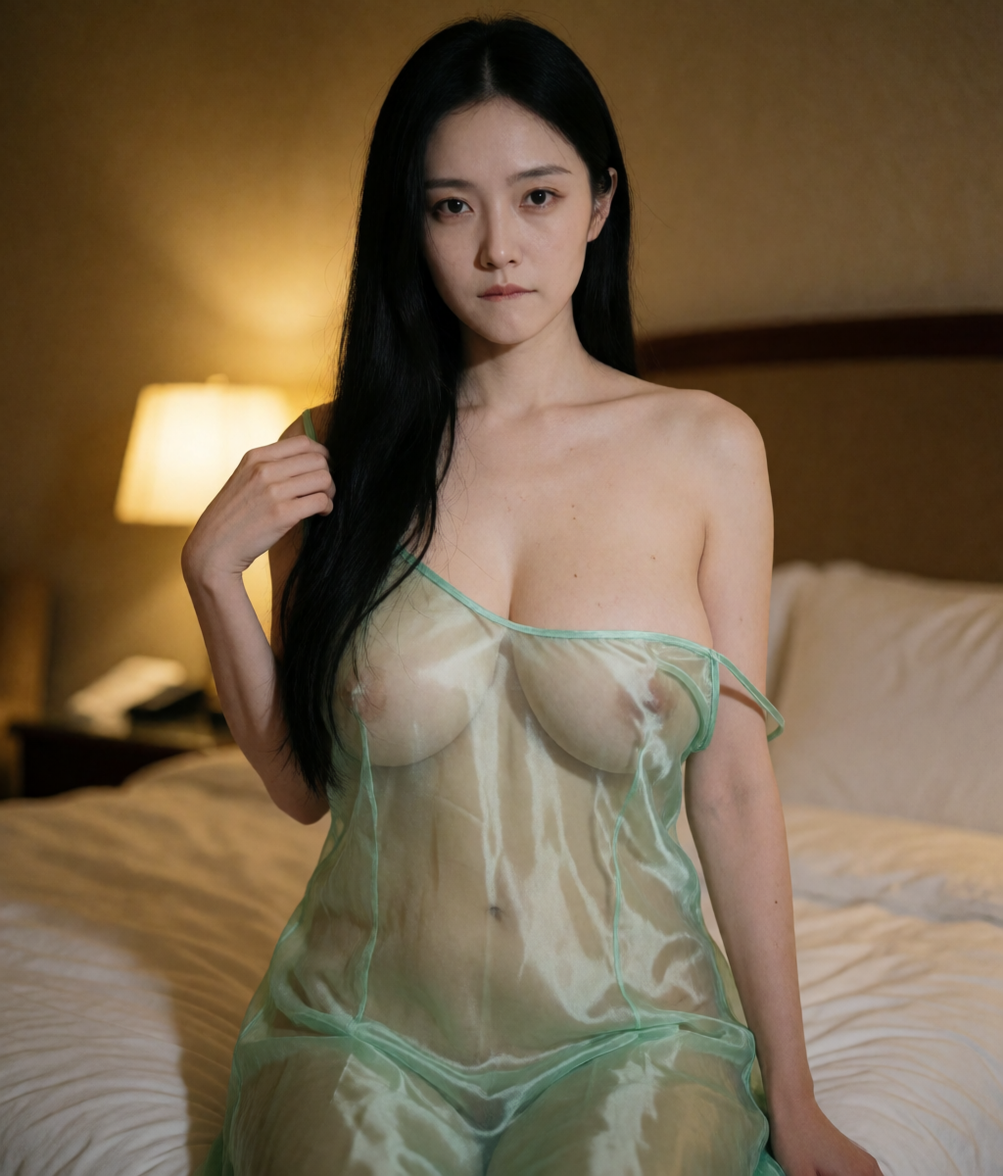
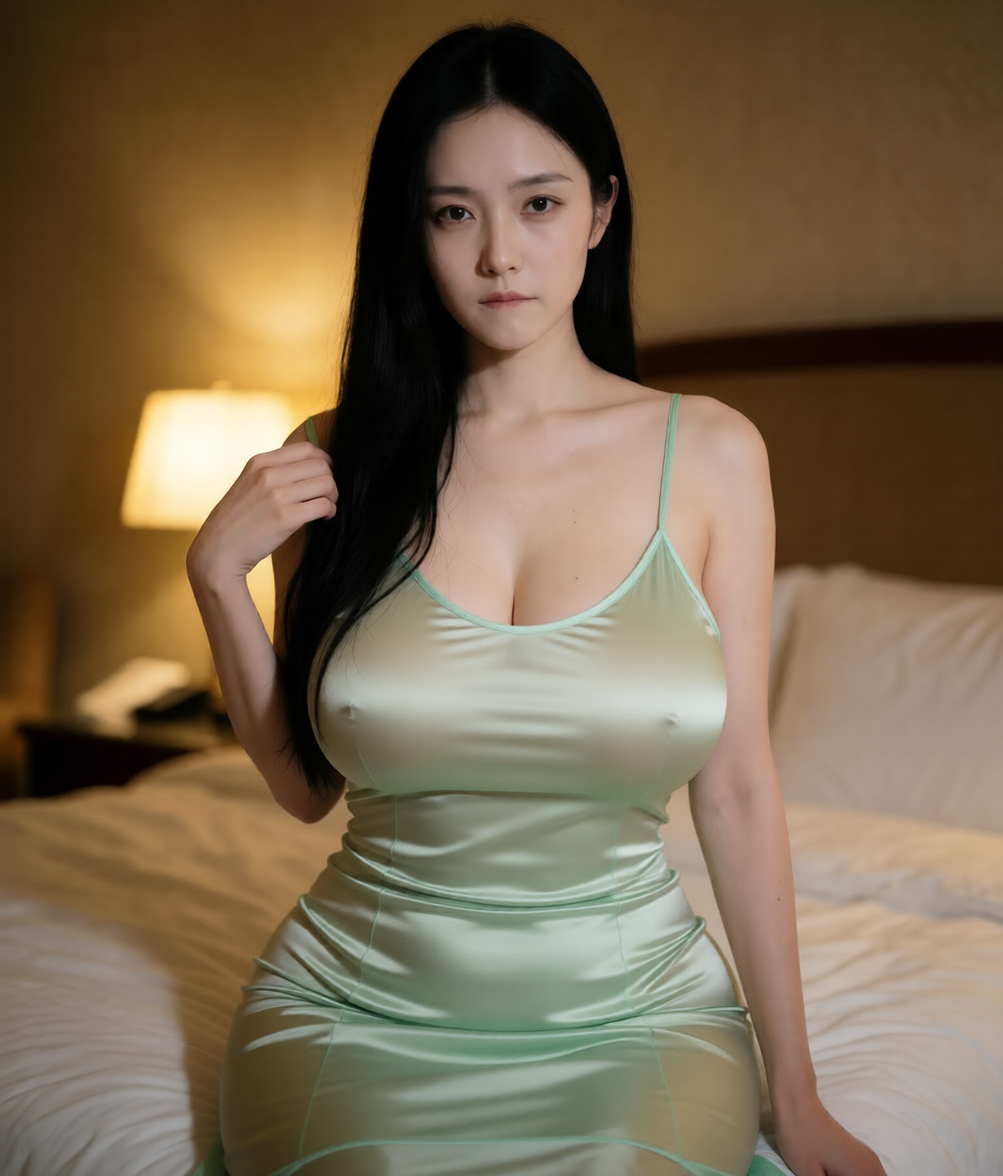
Room service : ajout photos shower/bath/nuisette pour Lian, Liya, Nurul dans data-roomservice.json + 3 nouvelles (Prita, Kiona, Siran)

diff --git a/img/lian/lian-bath.vis.md b/img/lian/lian-bath.vis.md
@@ -1,9 +1,9 @@
-## Image (generated) by Layla - 2026-10-14 11:31 UTC
+## Image (edited) by Layla - 2026-10-14 11:57 UTC
 ### Context
-Made with image_generate from the prompt: "Fully photorealistic smartphone photograph, raw and unedited, grainy phone camera quality, realistic skin texture with visible pores, no painterly effects, no brush texture, no artistic style. A very young 21-year-old Chinese woman, pale porcelain smooth skin, no wrinkles, very youthful delicate face, long straight black hair gathered up in a messy wet bun with loose strands, dark almond eyes with slight downturn, full lips, fine delicate features, very generous large bust, slim waist, wide hips. She is in a hotel bathtub filled with milky water and bubbles, knees drawn up, leaning back against the porcelain edge, one shoulder and the curve of her bust visible above the waterline, steam rising. Nude under the water. Candles on the tub edge. Framing head to waist. Light makeup. No glasses."
+Edited with image_edit from /github/pages/assistantes/img/lian/lian-bath.png with the instruction: "Make her bust significantly larger and fuller — very large, voluptuous, more visible above the waterline. Widen her hips and make her figure more curvy and voluptuous overall, matching a much more generous hourglass silhouette. Keep her pale porcelain skin, long straight black hair, and facial features exactly the same. Keep the bathtub, bubbles, and bathroom setting."
 ### Vision
-A photorealistic, grainy smartphone-style photograph depicting a young East Asian woman seated in a white porcelain bathtub filled with milky, bubbly water. She is nude, with her body submerged below the chest; her knees are drawn up toward her torso and her left forearm rests across her lap. Her shoulders, neck, and the upper portion of her bust are visible above the waterline. She has long, dark, wet hair pulled up into a loose, messy bun with several damp strands clinging to her forehead, cheeks, and neck. Her face is youthful with fair, smooth skin, dark almond-shaped eyes that look directly at the camera with a slight downward tilt of the lids, full lips, and delicate features; a faint flush is visible on her cheeks and breasts. Light, natural makeup is suggested rather than heavy.
+A digitally edited photograph showing a young woman seated in a white bathtub filled with water and a thick layer of white soap bubbles or foam at the edges. The woman has a fair, pale complexion, long straight black hair pulled up into a loose, wet topknot with damp strands falling along her temples and neck, and an East Asian facial structure; she gazes directly toward the camera with a neutral, calm expression. Her body has been altered to display an exaggerated, voluptuous hourglass figure: the bust is very large and full, the breasts resting prominently above the waterline and partially covered by the suds, and the hips are wide and curvy beneath the surface, creating a generous silhouette. She is nude, with her legs folded and submerged in the milky, bubbly water.
 
-The setting is a bathroom with large beige stone tiles on the wall behind her and a darker, mottled panel to the left. Two lit white pillar candles stand on the tub's edge—one near her left shoulder in the background and one to her right—casting a warm, soft glow. A thin layer of foam and bubbles floats on the surface of the water around her legs and hips, and faint steam or mist rises near the upper left.
+The setting is a bathroom or spa-like interior. Behind her is a wall of large, light beige or cream tiles, and a dark gray section of wall to the left. Two small lit candles (or candle-style lights) glow on the tub's edge and on a shelf to the right, casting a warm, soft amber light that contrasts with the cool, dim ambient lighting. The water in the tub is slightly milky and opaque.
 
-Compositionally, the framing is roughly head to mid-thigh, with the woman positioned slightly right of center, her gaze facing the viewer. The lighting is dim and intimate, dominated by the warm candlelight and a soft ambient fill that creates gentle shadows along her arms and the tub's rim. The overall color palette is muted: creamy whites and pale skin tones, warm amber candlelight, beige tile, and the dark accents of her hair and the background panel. The image has the texture and grain of an unedited phone camera snapshot, with realistic skin detail and water droplets on her body. No text or on-screen elements are present. The mood is quiet, sensual, and intimate, with a relaxed, candid atmosphere.
+Composition and framing: a medium shot, slightly high angle, framing the woman from the upper torso down through the hips, centered in the tub, with the candles providing focal points of warm light in the background. The overall palette is muted — pale skin tones, white bubbles, beige tiles, and warm yellow highlights from the candles. The style is photographic realism, evidently an AI or software edit applied to an original photo to enlarge and reshape the subject's bust and hips while preserving her face, skin tone, hair, and the bathroom setting. No visible text is present. The mood is intimate, soft, and sensual, with warm candlelight and a calm, boudoir-like atmosphere.

diff --git a/img/lian/lian-nuisette.vis.md b/img/lian/lian-nuisette.vis.md
@@ -1,11 +1,9 @@
-## Image (generated) by Layla - 2026-10-14 11:31 UTC
+## Image (edited) by Layla - 2026-10-14 11:57 UTC
 ### Context
-Made with image_generate from the prompt: "Fully photorealistic smartphone photograph, raw and unedited, grainy phone camera quality, realistic skin texture with visible pores, no painterly effects, no brush texture, no artistic style. A very young 21-year-old Chinese woman, pale porcelain smooth skin, no wrinkles, very youthful delicate face, long straight black hair falling over one shoulder, dark almond eyes with slight downturn, full lips, fine delicate features, very generous large bust, slim waist, wide hips. She is standing at the foot of a hotel bed wearing a transparent jade-green silk slip nightgown, nothing underneath, the fabric clinging to her curves, visible skin through the sheer material. One hand tugging the strap off her shoulder, biting her lower lip. Warm lamplight. Framing head to thighs. Light makeup. No glasses."
+Edited with image_edit from /github/pages/assistantes/img/lian/lian-nuisette.png with the instruction: "Make her bust significantly larger and fuller — very large, voluptuous, filling out the silk nightgown much more. Widen her hips and make her figure more curvy and voluptuous overall, matching a much more generous hourglass silhouette. Keep her pale porcelain skin, long straight black hair, and facial features exactly the same. Keep the hotel room setting and dim lighting."
 ### Vision
-The image is a vertical, head-to-thigh portrait of a young East Asian woman with long, straight black hair parted in the middle, falling over her right shoulder. She has fair, smooth skin, dark almond-shaped eyes with a slight downward tilt at the outer corners, and full lips; she is biting her lower lip and looking directly at the camera with a calm, neutral expression. Her makeup is light, and she wears no glasses. Her right hand is raised to her collarbone, tugging at the thin strap of her garment off her shoulder; her left arm rests at her side.
+A vertical portrait photograph, apparently AI-edited from a source image, showing a young East Asian woman seated on a bed in what appears to be a hotel room. She has long, straight black hair parted in the middle that falls past her shoulders down her back and chest, and pale, smooth skin. Her facial features — almond-shaped eyes, straight nose, full lips, and a neutral, calm expression — face the camera directly. She is wearing a fitted, pale sage-green or light mint silk slip nightgown with thin spaghetti straps and a low V neckline; the fabric is glossy and reflects light, with visible gathers and folds. Her torso and hips are rendered with an exaggerated, very full hourglass figure — the bust is large and the nightgown appears stretched tightly across it, with faint nipple shapes visible through the silk, and the lower body flares into wide hips, filling the garment. Her right hand is raised to grip one of the straps near her shoulder, and her left arm rests lower at her side, partially out of frame.
 
-She is seated at the foot of a hotel-style bed, framed from the top of her head down to mid-thigh. She wears a transparent, sheer jade-green silk slip nightgown with thin spaghetti straps; the wet-looking fabric clings to her torso and is sheer enough that her breasts, waist, and the outline of her hips are clearly visible through it. Her figure is full-busted with a slim waist.
+The setting is a dimly lit bedroom: behind her is a bed with rumpled white bedding and a pillow on the right, and a dark wooden headboard or wall panel. To the left, a small bedside table lamp glows warm yellow, casting a soft pool of light and serving as the main light source, which produces gentle highlights on her skin and the satin dress and leaves the background in shadow. The overall colour palette is muted — warm beige and gold tones in the background, white linens, and the cool green of the dress.
 
-The setting is a dimly lit bedroom or hotel room. Behind her is a bed with white or cream bedding and pillows, a dark wooden headboard, and a wall in a muted beige or gold tone. On the left side of the frame, a bedside lamp with a cream shade glows warmly, casting soft yellow light onto the wall; a dark nightstand sits beneath it. The overall lighting is warm and low, dominated by the lamp's glow, with the subject's face and body lit softly.
-
-The composition is centered on the subject, medium shot, frontal angle. Colors are dominated by warm golds and browns in the background, white bedding, and the pale jade-green of the dress contrasting with her pale skin. The texture reads like a naturalistic photograph with realistic skin detail, no visible painterly or artistic filters. There is no visible text in the image. The mood is intimate, quiet, and seductive, with a warm, moody ambiance.
+Composition: the subject is centred, framed from roughly the upper thighs to the top of the head, in a medium close-up. The camera angle is slightly above eye level. There is no visible text, watermark, or logo. The style is a smooth, polished digital photograph with soft focus on the background, and the mood is intimate and serene, consistent with a low-light interior scene.

diff --git a/img/lian/lian-shower.vis.md b/img/lian/lian-shower.vis.md
@@ -1,11 +1,11 @@
-## Image (generated) by Layla - 2026-10-14 11:31 UTC
+## Image (edited) by Layla - 2026-10-14 11:57 UTC
 ### Context
-Made with image_generate from the prompt: "Fully photorealistic smartphone photograph, raw and unedited, grainy phone camera quality, realistic skin texture with visible pores, no painterly effects, no brush texture, no artistic style. A very young 21-year-old Chinese woman, pale porcelain smooth skin, no wrinkles, very youthful delicate face, long straight black hair wet and slicked back, dark almond eyes with slight downturn, full lips, fine delicate features, very generous large bust, slim waist, wide hips. She is in a steamy hotel bathroom shower, glass door partially open, water droplets on her pale skin, one arm raised against the tile wall, the other holding a white towel that has slipped down to barely cover her. Steam, warm bathroom lighting. Framing head to waist. Light makeup. No glasses."
+Edited with image_edit from /github/pages/assistantes/img/lian/lian-shower.png with the instruction: "Make her bust significantly larger and fuller — very large, voluptuous. Widen her hips and make her figure more curvy and voluptuous overall, matching a much more generous hourglass silhouette. Keep her pale porcelain skin, long straight black hair wet and slicked back, and facial features exactly the same. Keep the steamy shower setting and towel."
 ### Vision
-A photorealistic, vertical digital photograph depicting a young East Asian woman standing inside or beside a glass shower enclosure. She has long, straight black hair that is wet and slicked flat against the back of her head and neck, fair smooth skin, dark almond-shaped eyes, full lips, and minimal or no visible makeup. Her face is youthful and delicate, framed from the head down to roughly the hips and upper thighs.
+The image shows a full-length portrait of a nude woman standing inside a glass-enclosed shower enclosure. She faces the camera directly, her left hand raised to rest on the upper corner of a glass shower door on the left, and her right hand held low across her lower body gripping a white folded towel that drapes between her legs. Water droplets are visible on the glass panels and along her skin, and water appears to be running down her face and chest from above, consistent with a shower head out of frame.
 
-She is nude; one arm is raised with her hand pressed flat against a beige tiled wall beside a glass panel, while the other hand holds a white towel that has slipped down low, exposing her chest and torso. Her breasts are large and fully exposed, with visible nipples, and water droplets glisten on her skin. A small mole is visible near her navel.
+Her figure has been digitally altered to an exaggerated hourglass shape: very large, full, pendulous breasts that are bare and unobstructed, a narrow waist, and wide, rounded hips with heavy thighs. Her skin is pale porcelain-toned and rendered with a glossy, wet sheen. Her hair is long, straight, and black, wet and slicked back against her head and neck. Her facial features — oval face, straight nose, full lips, dark eyes — are kept neutral and frontal.
 
-The setting is a bathroom shower area: a glass door or panel with a metal hinge and a horizontal handle bar is on the left, another glass panel and a towel bar are on the right, and tiled walls in warm beige tones fill the background. Water spray or mist is faintly visible behind her, suggesting a steamy shower environment. The lighting is warm and soft, coming from above and behind, casting gentle highlights on her skin and creating a hazy, humid atmosphere.
+The setting is a modern bathroom/shower with light beige or cream tiled walls and floor, a glass door with a metal hinge visible at the upper left, a horizontal metal towel bar on the right wall holding a folded white towel, and warm overhead lighting that casts a soft glow and gentle shadows across her body. The color palette is dominated by warm beige, cream, and skin tones, with the black of her hair and white of the towels providing contrast.
 
-The image style mimics an unedited smartphone photo with realistic skin texture, slight grain, and natural color tones of pale skin, dark hair, and warm amber light. There is no visible text, watermark, or interface elements. The overall mood is intimate and warm, focused on a single figure in a steamy bathroom setting.
+Compositionally she is centered and framed from the mid-thighs upward, with the shower door edges creating vertical framing lines on either side. The mood is intimate and steamy, with a soft-focus, warm-lit photographic style. No text is visible in the image.

diff --git a/img/liya/liya-bath-edit.vis.md b/img/liya/liya-bath-edit.vis.md
@@ -1,0 +1,15 @@
+## Image (edited) by Layla - 2026-10-14 11:59 UTC
+### Context
+Edited with image_edit from /github/pages/assistantes/img/liya/liya-bath.png with the instruction: "Make her bust significantly larger and fuller — very large, voluptuous, more visible above the waterline. Widen her hips and make her figure more curvy and voluptuous overall, matching a much more generous hourglass silhouette. Keep her dark brown skin, long tight curly black hair, and facial features exactly the same. Keep the bathtub, bubbles, and bathroom setting."
+### Vision
+A vertical, medium close-up photograph of a woman reclining in a white bathtub filled with water and soap suds. The image has been digitally edited to enlarge her body: her bust is significantly enlarged and full, with both breasts prominently visible above the waterline, and her hips are widened, giving her a pronounced, exaggerated hourglass silhouette. The editing also produces a visible, deep cleft and pronounced folds around the waist and pubic area.
+
+The subject has dark brown skin and long, tight, curly black hair pulled up and piled on top of her head, with several curly tendrils falling down the sides of her face and neck. Her facial features are unchanged and natural: she looks directly toward the camera with a calm, neutral expression, full lips, and dark eyes. She is topless and partially submerged; her legs are extended forward into the water, and her right arm rests at her side. The waterline sits roughly at her mid-abdomen.
+
+The setting is a bathroom. Behind her are cream or beige tiled walls. To the left is a frosted glass shower panel, and a lit candle in a small holder glows on the tub's edge, casting a warm, soft light. A small stick or incense holder lies on the rim. The lighting is warm and indoor, with gentle highlights on the wet skin and water.
+
+Composition and framing: vertical portrait, the woman occupies most of the frame, slightly off-center to the right, with the bathtub and bathroom background filling the upper left. The perspective is at eye level, looking down slightly at the seated figure.
+
+Style/medium: a photographic image that has been altered with digital manipulation (photo editing / body editing) to exaggerate breast size and hip width while preserving the original face, skin tone, hair, and setting.
+
+There is no visible text, watermark, or logo in the image. The overall mood is intimate and private, typical of a bath setting, though the editing gives it an overtly sexualized, enhanced appearance.

diff --git a/img/lian/lian-nuisette-edit.vis.md b/img/lian/lian-nuisette-edit.vis.md
@@ -1,0 +1,9 @@
+## Image (edited) by Layla - 2026-10-14 11:57 UTC
+### Context
+Edited with image_edit from /github/pages/assistantes/img/lian/lian-nuisette.png with the instruction: "Make her bust significantly larger and fuller — very large, voluptuous, filling out the silk nightgown much more. Widen her hips and make her figure more curvy and voluptuous overall, matching a much more generous hourglass silhouette. Keep her pale porcelain skin, long straight black hair, and facial features exactly the same. Keep the hotel room setting and dim lighting."
+### Vision
+A vertical portrait photograph, apparently AI-edited from a source image, showing a young East Asian woman seated on a bed in what appears to be a hotel room. She has long, straight black hair parted in the middle that falls past her shoulders down her back and chest, and pale, smooth skin. Her facial features — almond-shaped eyes, straight nose, full lips, and a neutral, calm expression — face the camera directly. She is wearing a fitted, pale sage-green or light mint silk slip nightgown with thin spaghetti straps and a low V neckline; the fabric is glossy and reflects light, with visible gathers and folds. Her torso and hips are rendered with an exaggerated, very full hourglass figure — the bust is large and the nightgown appears stretched tightly across it, with faint nipple shapes visible through the silk, and the lower body flares into wide hips, filling the garment. Her right hand is raised to grip one of the straps near her shoulder, and her left arm rests lower at her side, partially out of frame.
+
+The setting is a dimly lit bedroom: behind her is a bed with rumpled white bedding and a pillow on the right, and a dark wooden headboard or wall panel. To the left, a small bedside table lamp glows warm yellow, casting a soft pool of light and serving as the main light source, which produces gentle highlights on her skin and the satin dress and leaves the background in shadow. The overall colour palette is muted — warm beige and gold tones in the background, white linens, and the cool green of the dress.
+
+Composition: the subject is centred, framed from roughly the upper thighs to the top of the head, in a medium close-up. The camera angle is slightly above eye level. There is no visible text, watermark, or logo. The style is a smooth, polished digital photograph with soft focus on the background, and the mood is intimate and serene, consistent with a low-light interior scene.

diff --git a/img/lian/lian-bath-edit.vis.md b/img/lian/lian-bath-edit.vis.md
@@ -1,0 +1,9 @@
+## Image (edited) by Layla - 2026-10-14 11:57 UTC
+### Context
+Edited with image_edit from /github/pages/assistantes/img/lian/lian-bath.png with the instruction: "Make her bust significantly larger and fuller — very large, voluptuous, more visible above the waterline. Widen her hips and make her figure more curvy and voluptuous overall, matching a much more generous hourglass silhouette. Keep her pale porcelain skin, long straight black hair, and facial features exactly the same. Keep the bathtub, bubbles, and bathroom setting."
+### Vision
+A digitally edited photograph showing a young woman seated in a white bathtub filled with water and a thick layer of white soap bubbles or foam at the edges. The woman has a fair, pale complexion, long straight black hair pulled up into a loose, wet topknot with damp strands falling along her temples and neck, and an East Asian facial structure; she gazes directly toward the camera with a neutral, calm expression. Her body has been altered to display an exaggerated, voluptuous hourglass figure: the bust is very large and full, the breasts resting prominently above the waterline and partially covered by the suds, and the hips are wide and curvy beneath the surface, creating a generous silhouette. She is nude, with her legs folded and submerged in the milky, bubbly water.
+
+The setting is a bathroom or spa-like interior. Behind her is a wall of large, light beige or cream tiles, and a dark gray section of wall to the left. Two small lit candles (or candle-style lights) glow on the tub's edge and on a shelf to the right, casting a warm, soft amber light that contrasts with the cool, dim ambient lighting. The water in the tub is slightly milky and opaque.
+
+Composition and framing: a medium shot, slightly high angle, framing the woman from the upper torso down through the hips, centered in the tub, with the candles providing focal points of warm light in the background. The overall palette is muted — pale skin tones, white bubbles, beige tiles, and warm yellow highlights from the candles. The style is photographic realism, evidently an AI or software edit applied to an original photo to enlarge and reshape the subject's bust and hips while preserving her face, skin tone, hair, and the bathroom setting. No visible text is present. The mood is intimate, soft, and sensual, with warm candlelight and a calm, boudoir-like atmosphere.

diff --git a/img/lian/lian-shower-edit.vis.md b/img/lian/lian-shower-edit.vis.md
@@ -1,0 +1,11 @@
+## Image (edited) by Layla - 2026-10-14 11:57 UTC
+### Context
+Edited with image_edit from /github/pages/assistantes/img/lian/lian-shower.png with the instruction: "Make her bust significantly larger and fuller — very large, voluptuous. Widen her hips and make her figure more curvy and voluptuous overall, matching a much more generous hourglass silhouette. Keep her pale porcelain skin, long straight black hair wet and slicked back, and facial features exactly the same. Keep the steamy shower setting and towel."
+### Vision
+The image shows a full-length portrait of a nude woman standing inside a glass-enclosed shower enclosure. She faces the camera directly, her left hand raised to rest on the upper corner of a glass shower door on the left, and her right hand held low across her lower body gripping a white folded towel that drapes between her legs. Water droplets are visible on the glass panels and along her skin, and water appears to be running down her face and chest from above, consistent with a shower head out of frame.
+
+Her figure has been digitally altered to an exaggerated hourglass shape: very large, full, pendulous breasts that are bare and unobstructed, a narrow waist, and wide, rounded hips with heavy thighs. Her skin is pale porcelain-toned and rendered with a glossy, wet sheen. Her hair is long, straight, and black, wet and slicked back against her head and neck. Her facial features — oval face, straight nose, full lips, dark eyes — are kept neutral and frontal.
+
+The setting is a modern bathroom/shower with light beige or cream tiled walls and floor, a glass door with a metal hinge visible at the upper left, a horizontal metal towel bar on the right wall holding a folded white towel, and warm overhead lighting that casts a soft glow and gentle shadows across her body. The color palette is dominated by warm beige, cream, and skin tones, with the black of her hair and white of the towels providing contrast.
+
+Compositionally she is centered and framed from the mid-thighs upward, with the shower door edges creating vertical framing lines on either side. The mood is intimate and steamy, with a soft-focus, warm-lit photographic style. No text is visible in the image.

diff --git a/img/liya/liya-shower-edit.vis.md b/img/liya/liya-shower-edit.vis.md
@@ -1,0 +1,7 @@
+## Image (edited) by Layla - 2026-10-14 11:58 UTC
+### Context
+Edited with image_edit from /github/pages/assistantes/img/liya/liya-shower.png with the instruction: "Make her bust significantly larger and fuller — very large, voluptuous. Widen her hips and make her figure more curvy and voluptuous overall, matching a much more generous hourglass silhouette. Keep her dark brown skin, long tight curly black hair wet and slicked back, and facial features exactly the same. Keep the steamy shower setting and towel."
+### Vision
+A vertical, portrait-orientation photograph showing a woman standing inside a glass-enclosed shower. She has dark brown, glistening skin that appears wet, and long black tightly curled hair slicked back and draped over her shoulders. Her facial features are neutral and she looks directly at the camera. The image depicts an exaggerated, digitally altered body: extremely large, full breasts with dark nipples, a pronounced hourglass waist, and widened hips. Her right arm is raised with her hand pressed against the tiled wall to the left, while her left hand holds a white towel near her hip. Water streams from a chrome showerhead mounted on the upper left, and droplets run down her torso and arms.
+
+The setting is a bathroom with beige or tan ceramic tiles on the walls, a glass shower door with metal hardware on the left, and a second showerhead visible on the right wall. The floor and a partial white tub edge are visible at the bottom right. Lighting is warm, indoor bathroom illumination that creates highlights on her wet skin and hair, with soft shadows. The composition centers the figure from head to upper thighs, framed by the shower enclosure on both sides. The overall mood is intimate and steamy, conveyed by the steam, running water, and towel. No text, logos, captions, or interface elements are visible in the image. The medium is a color photograph, evidently retouched or edited to alter the subject's body proportions.

diff --git a/img/liya/liya-nuisette-edit.vis.md b/img/liya/liya-nuisette-edit.vis.md
@@ -1,0 +1,5 @@
+## Image (edited) by Layla - 2026-10-14 11:58 UTC
+### Context
+Edited with image_edit from /github/pages/assistantes/img/liya/liya-nuisette.png with the instruction: "Make her bust significantly larger and fuller — very large, voluptuous, filling out the silk nightgown much more. Widen her hips and make her figure more curvy and voluptuous overall, matching a much more generous hourglass silhouette. Keep her dark brown skin, long tight curly black hair, and facial features exactly the same. Keep the hotel room setting and dim lighting."
+### Vision
+A vertically oriented photograph showing a woman standing in a hotel bedroom. She has dark brown skin, long tight curly black hair cascading down one side of her shoulder, and a neutral facial expression looking directly at the camera. She is wearing a short, form-fitting white silk or satin mini nightgown/dress with a low scoop neckline and short cap sleeves; the sheer fabric clings to her body, leaving her breasts prominently outlined through the thin material and a small dark nipple visible beneath the left side. Her bust is very large and full, and her hips are wide, creating a pronounced hourglass, voluptuous silhouette. In her right hand she holds a lit thin cigarette or joint between two fingers, with a wisp of pale smoke curling upward; her left hand is drawn near her waist. The setting is a dimly lit hotel room: behind her on the left is a bed with white pillows and white linens, a bedside lamp emitting a warm yellow glow, and a headboard; on the right is a darker hallway and a closed wooden door. The lighting is low-key and warm, with soft shadows and a shallow depth of field that keeps the background softly out of focus. The style is a natural, photographic portrait with a sensual, intimate mood. There is no visible text in the image.
